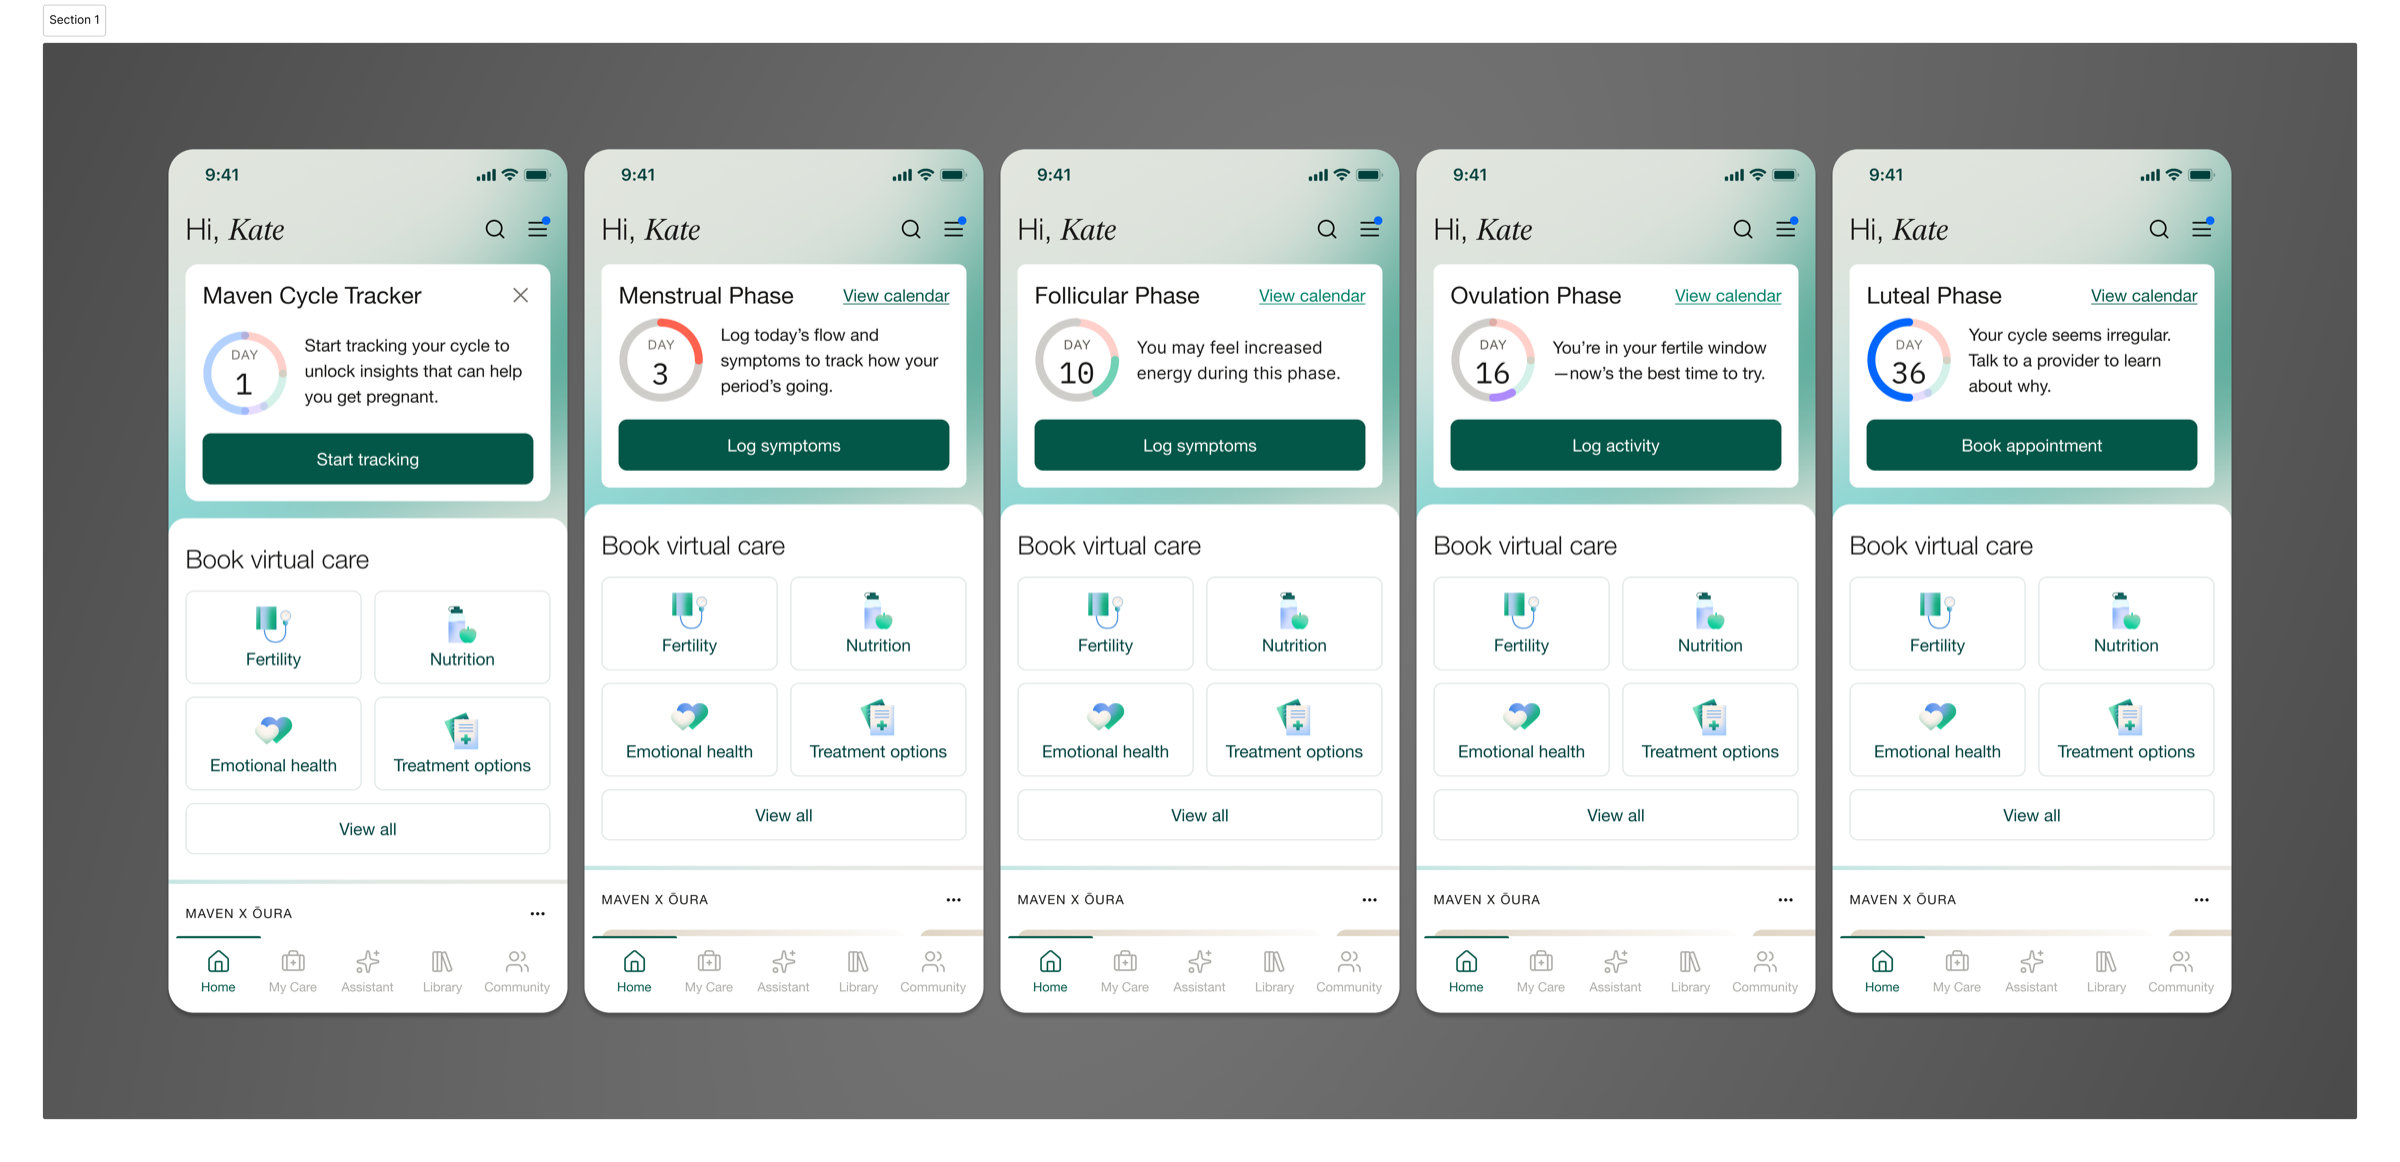
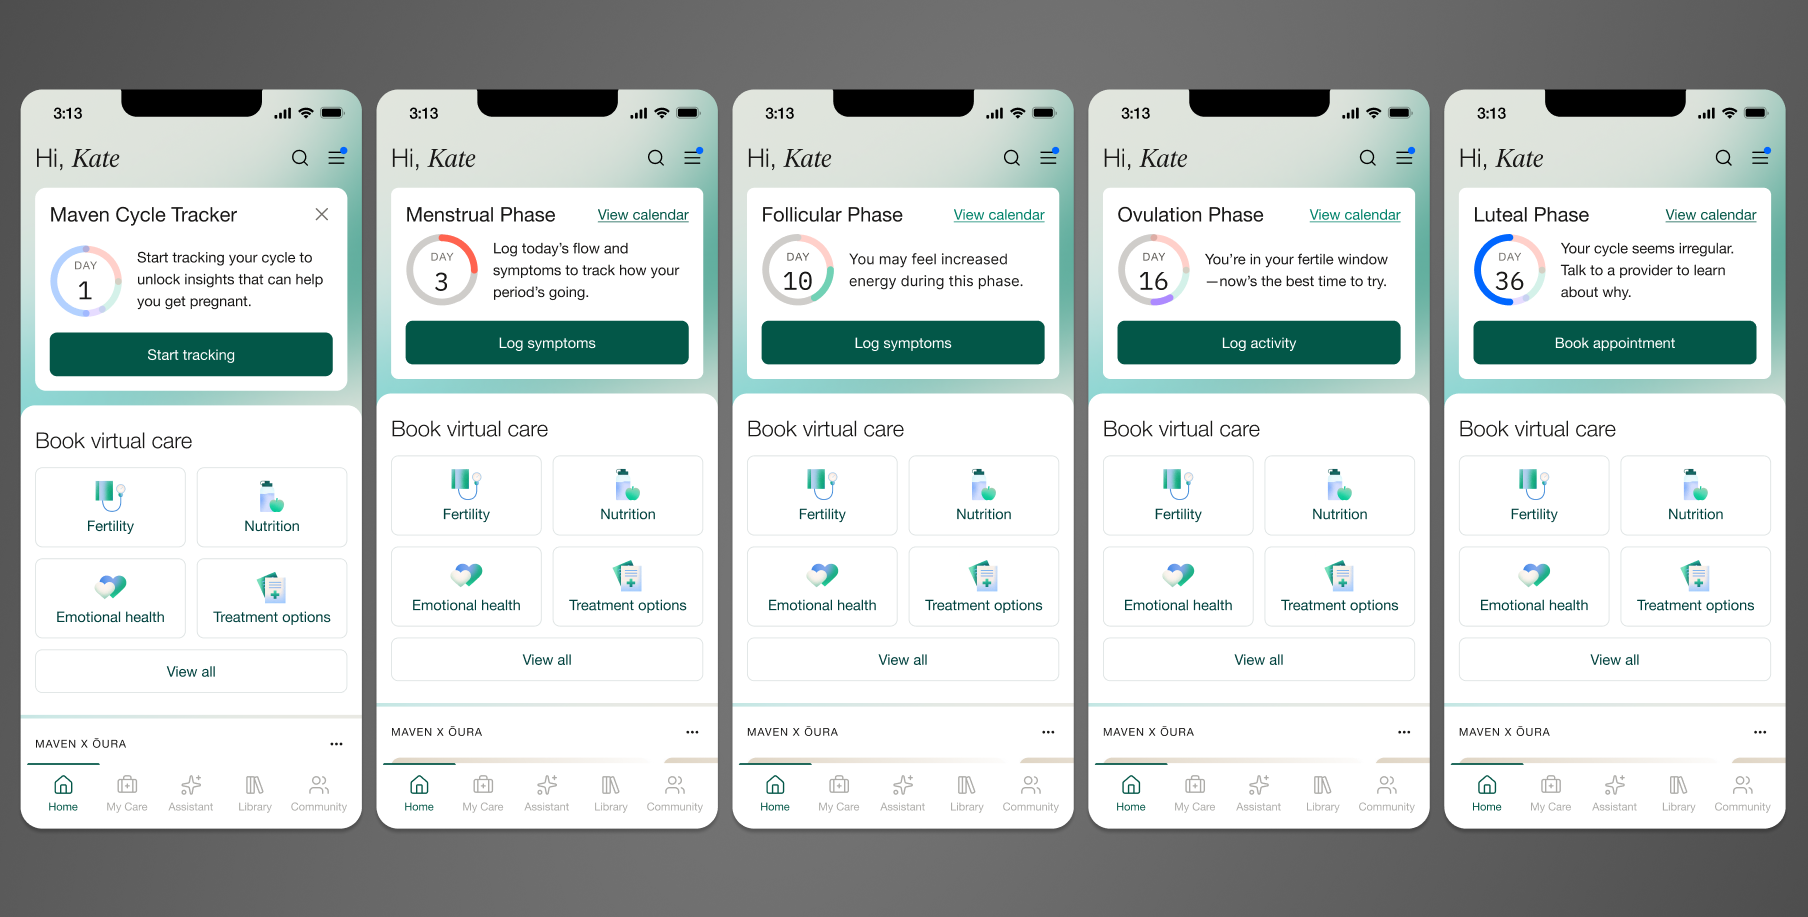
Replace Cycle Tracker widget image and let it break out wider than the text column

diff --git a/fertility-experience.html b/fertility-experience.html
@@ -471,7 +471,7 @@
       <p>My work on the fertility experience at Maven focused on closing those specific gaps: surfacing cycle data earlier, replacing single point-in-time testing with continuous signal, filling a diagnostic blind spot, and building a path for a condition that doesn't fit the standard model.</p>
     </div>
 
-    <div class="cs-section">
+    <div class="cs-section" style="border-bottom:none; padding-bottom:0;">
       <h2>Initiative 1: Cycle Tracker Homepage Widget</h2>
       <p>The homepage widget I designed is the top content unit on Maven's Fertility homepage, seen by roughly 30% of all Maven users, and the primary entry point into Cycle Tracker, the feature driving the most engagement and retention among this segment of users.</p>
 
@@ -481,7 +481,9 @@
       <h3>What I designed</h3>
       <p>This was two product problems in one interface: convert users who hadn't onboarded, retain and drive action for those who had. I designed 12 versions across two tracks, Trying to Conceive and Preconception, each solving for a different moment in the user's relationship with the feature. It shipped on iOS and Android at full fidelity in 2026, with a simplified version for web.</p>
       <p>This widget holds the highest-value real estate on the homepage, the top slot every fertility user sees first, which reflects how central Cycle Tracker was meant to be to a user's day-to-day use of the product.</p>
-      <div class="cs-img" style="aspect-ratio:2400/1162;"><img src="cycle-tracker-homepage-widget.png" alt="Five phone mockups of the Maven Cycle Tracker homepage widget across the menstrual, follicular, ovulation, and luteal phases, plus the pre-onboarding start-tracking state"></div>
+    </div>
+    <div class="cs-img" style="aspect-ratio:1808/917; margin:32px 0;"><img src="cycle-tracker-homepage-widget.png" alt="Five phone mockups of the Maven Cycle Tracker homepage widget across the menstrual, follicular, ovulation, and luteal phases, plus the pre-onboarding start-tracking state"></div>
+    <div class="cs-section" style="padding-top:0;">
       <p>I designed a new card component for Maven's design system, built as a reusable foundation rather than a one-off. I also designed a new way to represent cycle day: a circular indicator that updates dynamically as a user moves through their cycle, instead of a static number or date. Copy stayed short and specific by design, enough to earn a click, not fill space.</p>
       <p><strong>Not yet onboarded:</strong> made the case for Cycle Tracker's value fast enough to convert someone who hadn't engaged with the feature at all.</p>
       <p><strong>Already onboarded:</strong> anchored by the circular cycle-day visual, paired with context on what a user might be experiencing at that stage and a phase-specific CTA, so the widget drove action, not just information.</p>